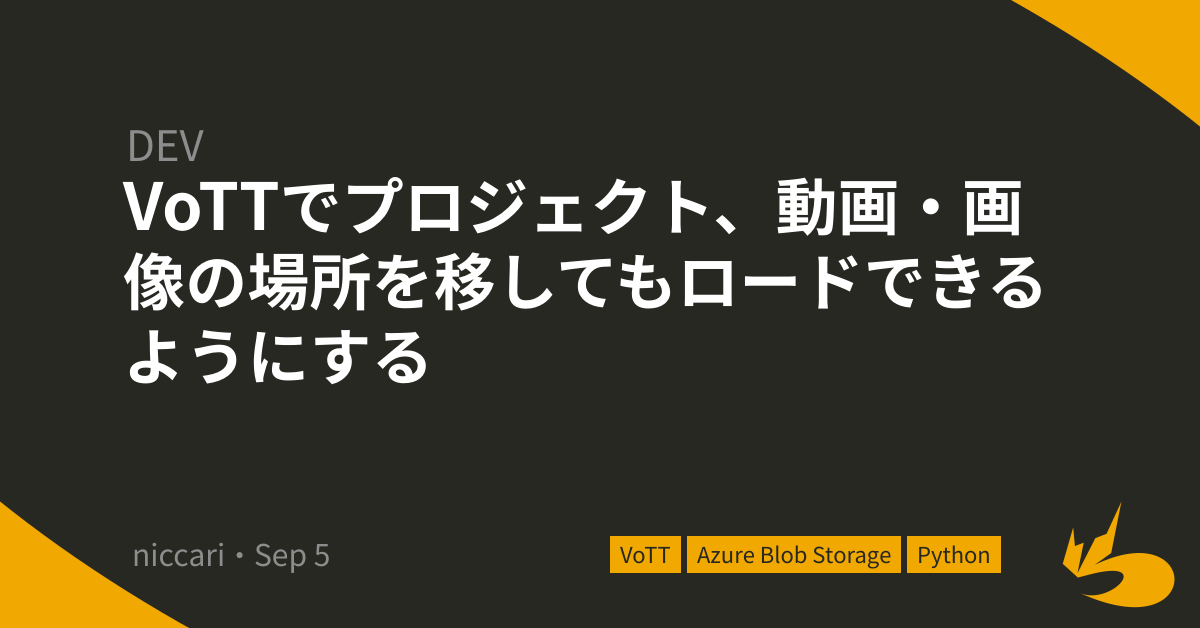
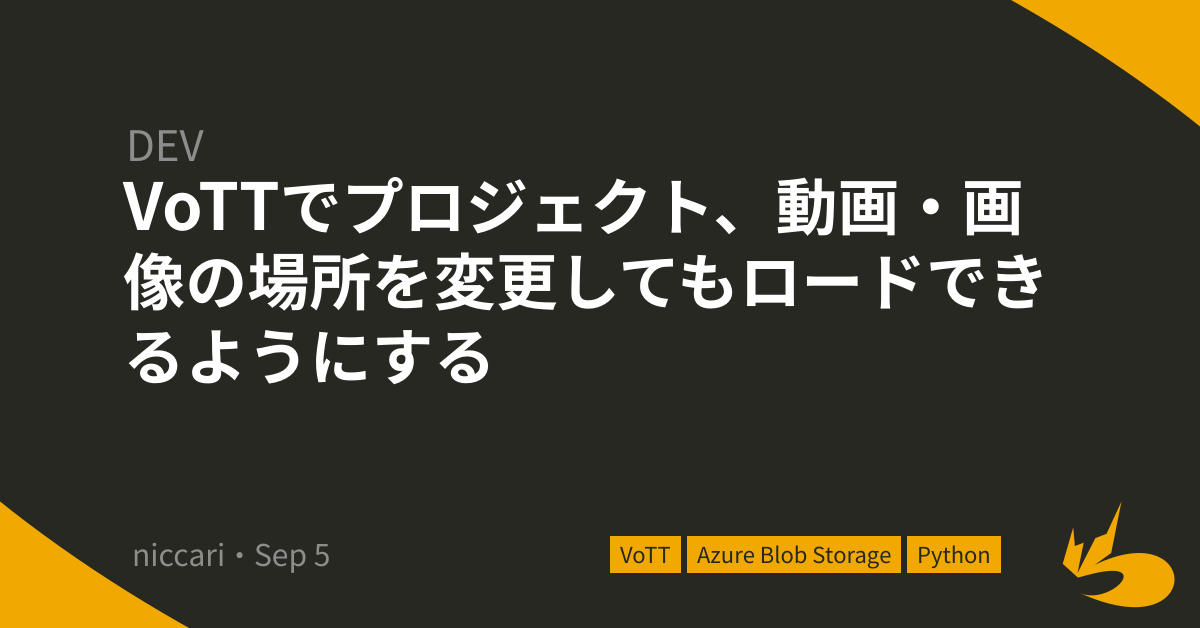
Fix: revisioning articles in September

Changed region(s): [[0.0925, 0.3933, 0.8633, 0.6051]]

diff --git a/docs/posts/20210905/index.html b/docs/posts/20210905/index.html
@@ -17,11 +17,11 @@
     <meta property="og:url" content="https://www.niccari.net/posts/20210905/" />
     <meta property="og:type" content="article" />
     <meta property="og:site_name" content="niccari.net" />
-    <meta property="og:title" content="VoTTでプロジェクト、動画・画像の場所を移してもロードできるようにする" />
-    <meta property="og:description" content="VoTT Ver.2.2.0現在、プロジェクト、動画・画像(アセット)のパスを変更するとロードできなくなる※1。
+    <meta property="og:title" content="VoTTでプロジェクト、動画・画像の場所を変更してもロードできるようにする" />
+    <meta property="og:description" content="VoTT v2.2.0現在、プロジェクトや動画・画像(アセット)のパスを変更するとロードできなくなる※1。
 これは以下の2点の原因による。
 
-アセットに関する情報が絶対パスに依存している
+アセットに関する情報(アセットのIDなど)が絶対パスに依存している
 ローカルファイルシステム設定の場合、ソース接続、ターゲット接続が絶対パスで保存されている
 
 修正コードを作ったので、ファイル構造について注釈しつつ記載する。" />
@@ -47,13 +47,13 @@
 
 </html>
 
-<h1>VoTTでプロジェクト、動画・画像の場所を移してもロードできるようにする</h1>
+<h1>VoTTでプロジェクト、動画・画像の場所を変更してもロードできるようにする</h1>
 <p class="post-meta"><time itemprop="datePublished">September 5, 2021</time>
 </p>
-<p><a href="https://github.com/Microsoft/VoTT">VoTT</a> Ver.2.2.0現在、プロジェクト、動画・画像(アセット)のパスを変更するとロードできなくなる※1。</p>
+<p><a href="https://github.com/Microsoft/VoTT">VoTT</a> v2.2.0現在、プロジェクトや動画・画像(アセット)のパスを変更するとロードできなくなる※1。</p>
 <p>これは以下の2点の原因による。</p>
 <ol>
-<li>アセットに関する情報が絶対パスに依存している</li>
+<li>アセットに関する情報(アセットのIDなど)が絶対パスに依存している</li>
 <li>ローカルファイルシステム設定の場合、ソース接続、ターゲット接続が絶対パスで保存されている</li>
 </ol>
 <p>修正コードを作ったので、ファイル構造について注釈しつつ記載する。</p>

diff --git a/docs/posts/20210906/index.html b/docs/posts/20210906/index.html
@@ -18,7 +18,8 @@
     <meta property="og:type" content="article" />
     <meta property="og:site_name" content="niccari.net" />
     <meta property="og:title" content="Android Studioで&#39;Installed Build Tools revision 31.0.0 is corrupted&#39;となるエラーの修正方法" />
-    <meta property="og:description" content="Android 12対応をするにあたりAndroid Build Tools 31.0.0をインストールすると、ビルド時に表題のエラーとなった。本エラーはAndroid Gradle Plugin(AGP)のバージョンを7.0.0以上にすることで解消できる。
+    <meta property="og:description" content="Android 12対応でAndroid Build Tools 31.0.0をインストールすると、ビルド時に表題のエラーとなった。
+本エラーはAndroid Gradle Plugin(AGP)のバージョンを7.0.0以上にすることで解消できる。
 ※ Stack Overflowでの回答内容を基にまとめた備忘録" />
     <meta property="og:image" content="https://www.niccari.net/assets/img/ogp/20210906.png" />
 
@@ -45,7 +46,8 @@
 <h1>Android Studioで&#39;Installed Build Tools revision 31.0.0 is corrupted&#39;となるエラーの修正方法</h1>
 <p class="post-meta"><time itemprop="datePublished">September 6, 2021</time>
 </p>
-<p>Android 12対応をするにあたりAndroid Build Tools 31.0.0をインストールすると、ビルド時に表題のエラーとなった。本エラーはAndroid Gradle Plugin(AGP)のバージョンを7.0.0以上にすることで解消できる。</p>
+<p>Android 12対応でAndroid Build Tools 31.0.0をインストールすると、ビルド時に表題のエラーとなった。</p>
+<p>本エラーはAndroid Gradle Plugin(AGP)のバージョンを7.0.0以上にすることで解消できる。</p>
 <p>※ Stack Overflowでの回答内容を基にまとめた備忘録</p>
 <h2 id="発生環境">発生環境</h2>
 <ul>

diff --git a/docs/categories/dev/index.html b/docs/categories/dev/index.html
@@ -56,7 +56,7 @@
     <br />
     
     <div>
-      <a href="https://www.niccari.net/posts/20210905/">VoTTでプロジェクト、動画・画像の場所を移してもロードできるようにする</a><br />
+      <a href="https://www.niccari.net/posts/20210905/">VoTTでプロジェクト、動画・画像の場所を変更してもロードできるようにする</a><br />
       <time>September 5, 2021</time>
     </div>
     <br />

diff --git a/docs/posts/index.html b/docs/posts/index.html
@@ -56,7 +56,7 @@
     <br />
     
     <div>
-      <a href="https://www.niccari.net/posts/20210905/">VoTTでプロジェクト、動画・画像の場所を移してもロードできるようにする</a><br />
+      <a href="https://www.niccari.net/posts/20210905/">VoTTでプロジェクト、動画・画像の場所を変更してもロードできるようにする</a><br />
       <time>September 5, 2021</time>
     </div>
     <br />

diff --git a/docs/tags/azure-blob-storage/index.html b/docs/tags/azure-blob-storage/index.html
@@ -50,7 +50,7 @@
     
     
     <div>
-      <a href="https://www.niccari.net/posts/20210905/">VoTTでプロジェクト、動画・画像の場所を移してもロードできるようにする</a><br />
+      <a href="https://www.niccari.net/posts/20210905/">VoTTでプロジェクト、動画・画像の場所を変更してもロードできるようにする</a><br />
       <time>September 5, 2021</time>
     </div>
     <br />

diff --git a/docs/tags/python/index.html b/docs/tags/python/index.html
@@ -50,7 +50,7 @@
     
     
     <div>
-      <a href="https://www.niccari.net/posts/20210905/">VoTTでプロジェクト、動画・画像の場所を移してもロードできるようにする</a><br />
+      <a href="https://www.niccari.net/posts/20210905/">VoTTでプロジェクト、動画・画像の場所を変更してもロードできるようにする</a><br />
       <time>September 5, 2021</time>
     </div>
     <br />

diff --git a/docs/tags/vott/index.html b/docs/tags/vott/index.html
@@ -50,7 +50,7 @@
     
     
     <div>
-      <a href="https://www.niccari.net/posts/20210905/">VoTTでプロジェクト、動画・画像の場所を移してもロードできるようにする</a><br />
+      <a href="https://www.niccari.net/posts/20210905/">VoTTでプロジェクト、動画・画像の場所を変更してもロードできるようにする</a><br />
       <time>September 5, 2021</time>
     </div>
     <br />

diff --git a/docs/index.html b/docs/index.html
@@ -74,7 +74,7 @@
 		<br />
 		
 		<div>
-			<a href="https://www.niccari.net/posts/20210905/">VoTTでプロジェクト、動画・画像の場所を移してもロードできるようにする</a><br />
+			<a href="https://www.niccari.net/posts/20210905/">VoTTでプロジェクト、動画・画像の場所を変更してもロードできるようにする</a><br />
 			<time>September 5, 2021</time>
 		</div>
 		<br />

diff --git a/content/posts/20210905.md b/content/posts/20210905.md
@@ -1,5 +1,5 @@
 ---
-title: "VoTTでプロジェクト、動画・画像の場所を移してもロードできるようにする"
+title: "VoTTでプロジェクト、動画・画像の場所を変更してもロードできるようにする"
 date: 2021-09-05T08:08:00+09:00
 draft: false
 toc: true
@@ -9,11 +9,11 @@ author: "niccari"
 
 ---
 
-[VoTT](https://github.com/Microsoft/VoTT) Ver.2.2.0現在、プロジェクト、動画・画像(アセット)のパスを変更するとロードできなくなる※1。
+[VoTT](https://github.com/Microsoft/VoTT) v2.2.0現在、プロジェクトや動画・画像(アセット)のパスを変更するとロードできなくなる※1。
 
 これは以下の2点の原因による。
 
-1. アセットに関する情報が絶対パスに依存している
+1. アセットに関する情報(アセットのIDなど)が絶対パスに依存している
 1. ローカルファイルシステム設定の場合、ソース接続、ターゲット接続が絶対パスで保存されている
 
 修正コードを作ったので、ファイル構造について注釈しつつ記載する。

diff --git a/content/posts/20210906.md b/content/posts/20210906.md
@@ -9,7 +9,9 @@ author: "niccari"
 
 ---
 
-Android 12対応をするにあたりAndroid Build Tools 31.0.0をインストールすると、ビルド時に表題のエラーとなった。本エラーはAndroid Gradle Plugin(AGP)のバージョンを7.0.0以上にすることで解消できる。
+Android 12対応でAndroid Build Tools 31.0.0をインストールすると、ビルド時に表題のエラーとなった。
+
+本エラーはAndroid Gradle Plugin(AGP)のバージョンを7.0.0以上にすることで解消できる。
 
 ※ Stack Overflowでの回答内容を基にまとめた備忘録
 
